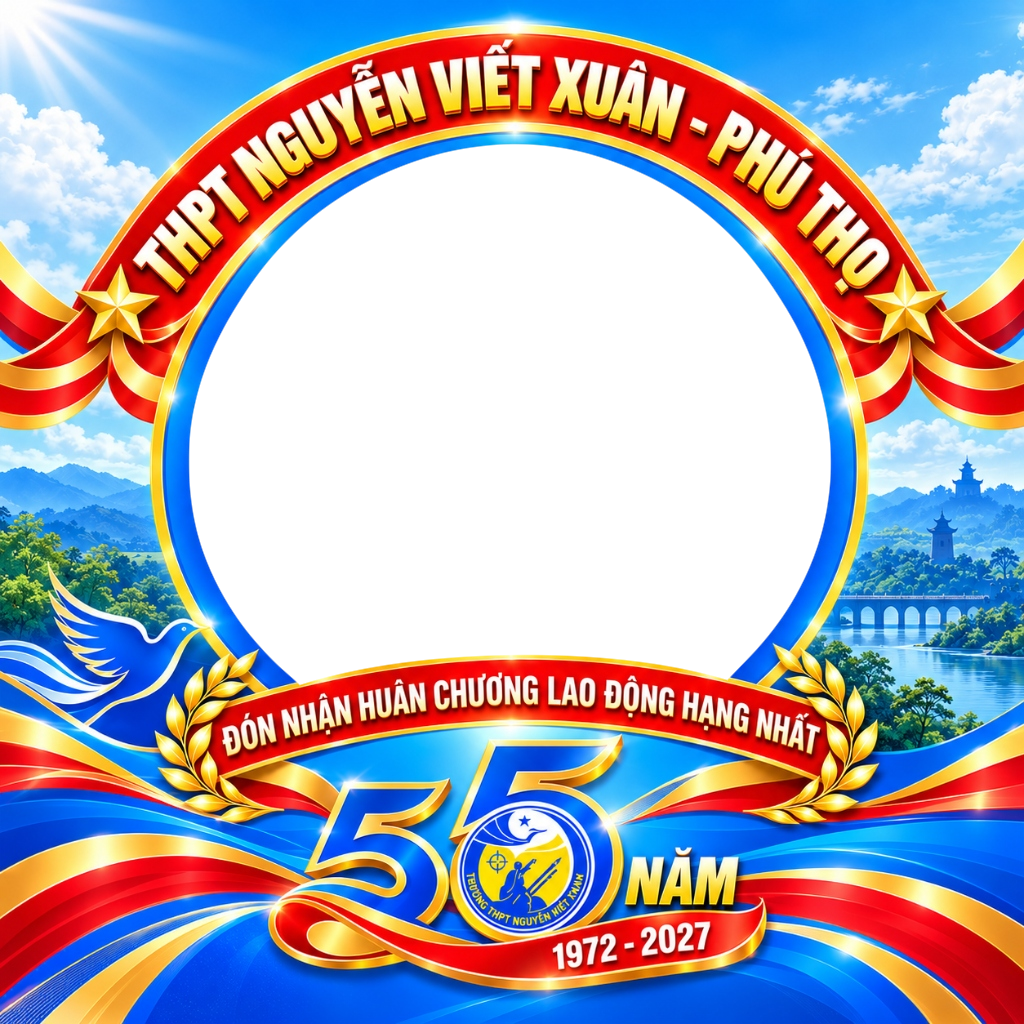
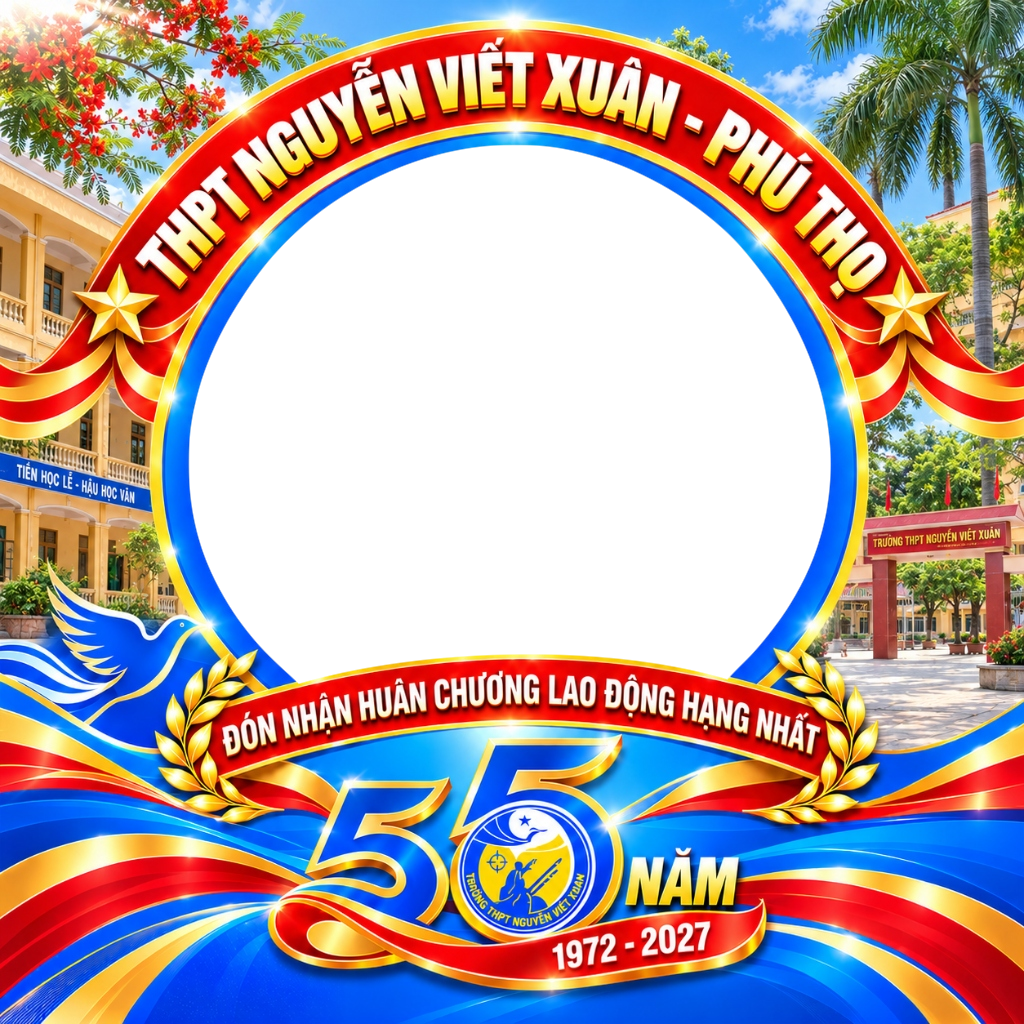
feat: replace frame with school campus 55th anniversary frame and remove old frame

diff --git a/src/app.js b/src/app.js
@@ -227,7 +227,7 @@ function initFrame() {
   img.onerror = () => {
     setStatus('Không thể tải khung ảnh mẫu. Vui lòng tải lại trang.', 'error');
   };
-  img.src = './assets/frame.png?v=2';
+  img.src = './assets/frame.png?v=3';
 }
 
 uploadBtn.addEventListener('click', () => photoInput.click());
